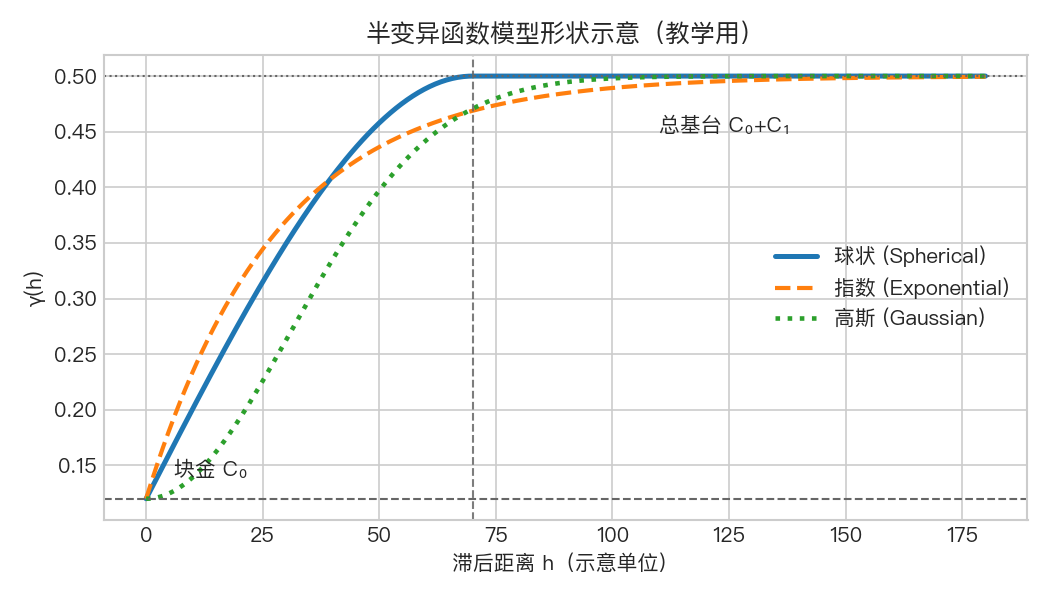
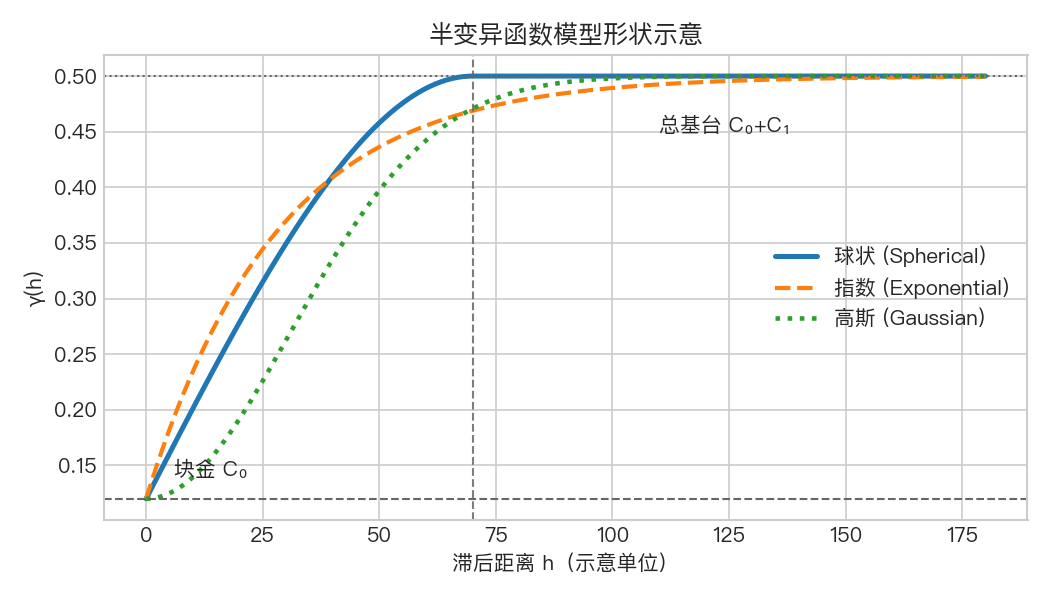
docs(cases): 调整 Notebook 为读者导向表达
去除教案和课堂提示语气，保留连贯的理论、公式、代码与图件叙述；同步更新构建脚本并重生成读者版 notebook 与模型示意图输出。

Made-with: Cursor

Changed region(s): [[0.3352, 0.03, 0.7314, 0.09]]

diff --git a/scripts/_build_notebook.py b/scripts/_build_notebook.py
@@ -15,9 +15,9 @@ cells = []
 
 cells.append(
     md(
-        r"""# 空间变异教学教案（Meuse 案例）
+        r"""# 空间变异分析（Meuse 案例）
 
-这是一份可直接用于课堂的「**理论 + 公式 + 代码 + 图件**」一体化教案。结构按教学逻辑组织：
+本文档按统一的分析逻辑组织，将理论、公式、代码与图件放在同一处连续展开：
 
 1. 问题与建模对象（为什么不是 i.i.d.）  
 2. 平稳性与可估计性（为什么能从一次空间实现估计结构）  
@@ -26,11 +26,11 @@ cells.append(
 5. 经验半变异（Matheron 分箱估计）  
 6. 理论模型（球状/指数/高斯）与拟合  
 7. 块金、基台、尺度参数解读  
-8. 与克里金的关系 + 课堂思考题
+8. 与克里金的关系与延伸方向
 
 ---
 
-## 教学目标
+## 阅读目标
 
 - 理解区域化变量、二阶平稳、内蕴假设的作用与区别。  
 - 掌握经验半变异估计式及分箱参数的偏差-方差权衡。  
@@ -101,7 +101,7 @@ OUT.mkdir(parents=True, exist_ok=True)
 
 cells.append(
     md(
-        r"""## 1) 为什么要做空间变异分析（理论）
+        r"""## 1) 为什么要做空间变异分析
 
 设观测为 $Z(\mathbf{x}_1),\ldots,Z(\mathbf{x}_n)$。若按 i.i.d. 假设处理，默认
 
@@ -124,7 +124,7 @@ $$
 
 cells.append(
     md(
-        r"""## 2) 随机函数、平稳性与可估计性（理论）
+        r"""## 2) 随机函数、平稳性与可估计性
 
 把区域化变量写为随机函数 $\{Z(\mathbf{x}):\mathbf{x}\in D\}$ 的一次实现。  
 为了从“单个空间实现”估计总体结构，需要约束条件：
@@ -153,7 +153,7 @@ $$
 
 cells.append(
     md(
-        r"""## 3) 协方差与半变异函数（理论 + 公式）
+        r"""## 3) 协方差与半变异函数
 
 协方差函数：
 
@@ -181,7 +181,7 @@ $$
 
 cells.append(
     md(
-        r"""## 4) 数据与变量变换（代码 + 图）
+        r"""## 4) 数据与变量变换
 
 本例变量为土壤锌浓度 `zinc`（ppm）。考虑到重金属浓度常右偏，先做
 
@@ -225,7 +225,7 @@ gdf.head()
 
 cells.append(
     md(
-        r"""## 5) 探索性空间图：趋势检查（代码 + 图）
+        r"""## 5) 探索性空间图：趋势检查
 
 估计 $\hat\gamma(h)$ 前，应检查是否存在显著趋势或分区。  
 如果均值随位置系统变化，则“只依赖滞后”的平稳假设可能被破坏。
@@ -262,9 +262,9 @@ plt.show()
 
 cells.append(
     md(
-        r"""## 6) 曲线该长什么样：模型示意（公式 + 示意图）
+        r"""## 6) 曲线形状与模型示意
 
-课堂中最容易混淆的是“块金、基台、变程”三个术语。先看示意，再做拟合。
+“块金、基台、变程”三个术语可先通过示意图建立直觉，再进入数据拟合。
 
 球状模型（含块金）的常见写法：
 
@@ -320,7 +320,7 @@ ax.annotate("总基台 C₀+C₁", xy=(110, C0 + C1 - 0.05), fontsize=10)
 ax.annotate("球状变程 a", xy=(a + 2, 0.04), fontsize=10)
 ax.set_xlabel("滞后距离 h（示意单位）")
 ax.set_ylabel("γ(h)")
-ax.set_title("半变异函数模型形状示意（教学用）")
+ax.set_title("半变异函数模型形状示意")
 ax.legend()
 fig.tight_layout()
 fig.savefig(OUT / "variogram_model_shapes.png", dpi=150)
@@ -349,7 +349,7 @@ plt.show()
 
 cells.append(
     md(
-        r"""## 7) 经验半变异：Matheron 估计（公式 + 代码）
+        r"""## 7) 经验半变异：Matheron 估计
 
 把点对按距离分箱后，第 $k$ 个滞后箱的估计量为：
 
@@ -358,7 +358,7 @@ $$
 $$
 
 其中 $\mathcal{B}_k$ 为第 $k$ 箱内点对集合，$N_k$ 为点对数。  
-教学要点：`width`（箱宽）和 `max_lag`（最大滞后）决定“平滑程度 vs 估计噪声”的权衡。
+`width`（箱宽）和 `max_lag`（最大滞后）决定“平滑程度 vs 估计噪声”的权衡。
 """
     )
 )
@@ -405,10 +405,10 @@ pd.DataFrame(
 
 cells.append(
     md(
-        r"""## 8) 理论模型拟合与比较（代码 + 图）
+        r"""## 8) 理论模型拟合与比较
 
 在合法模型族（球状/指数/高斯）中拟合参数，比较经验点上的误差。  
-这里用 RMS 仅作课堂演示指标：
+这里用 RMS 作为拟合优度的比较指标：
 
 $$
 \mathrm{RMS}=\sqrt{\frac{1}{K}\sum_{k=1}^{K}\left[\gamma_\theta(h_k)-\hat\gamma(h_k)\right]^2 }.
@@ -464,7 +464,7 @@ plt.show()
 
 cells.append(
     md(
-        r"""## 9) 参数解读与克里金连接（理论 + 代码）
+        r"""## 9) 参数解读与克里金连接
 
 给定最优模型后，读出：
 
@@ -472,7 +472,7 @@ cells.append(
 - 部分基台：$C_1$  
 - 总基台：$C_0+C_1$
 
-不同模型中“尺度参数”与“实用相关距离”换算不同。课堂常用近似：
+不同模型中“尺度参数”与“实用相关距离”换算不同，常用近似为：
 
 - Spherical：$r_{\text{eff}}\approx a$  
 - Exponential：$r_{\text{eff}}\approx 3a$  
@@ -516,16 +516,16 @@ summary
 
 cells.append(
     md(
-        r"""## 10) 课堂讨论与练习（教学建议）
+        r"""## 10) 延伸与复现建议
 
 1. 把 `width` 从 `90` 改为 `60` 和 `120`，比较经验曲线抖动与拟合结果变化。  
 2. 只用较短 `max_lag`（如 1000 m）重新拟合，观察块金/基台是否稳定。  
 3. 尝试去趋势（例如对 `x`,`y` 做线性回归取残差）后再估计半变异，比较差异。  
-4. 讨论：若出现各向异性（沿河流方向相关更强），应如何修改建模流程？
+4. 若出现各向异性（沿河流方向相关更强），可扩展到方向变异函数与各向异性建模。
 
 ---
 
-### 本教案输出图件（`outputs/`）
+### 产出图件（`outputs/`）
 
 | 文件 | 内容 |
 |------|------|
